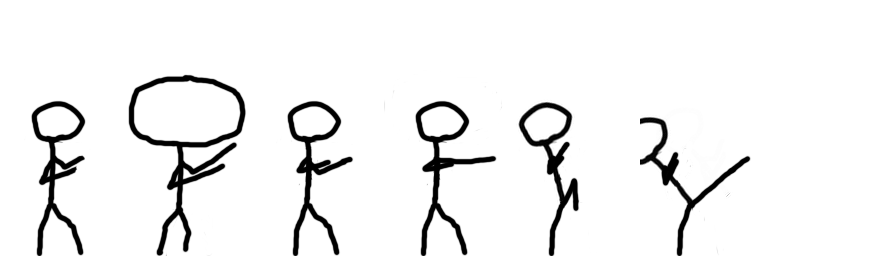
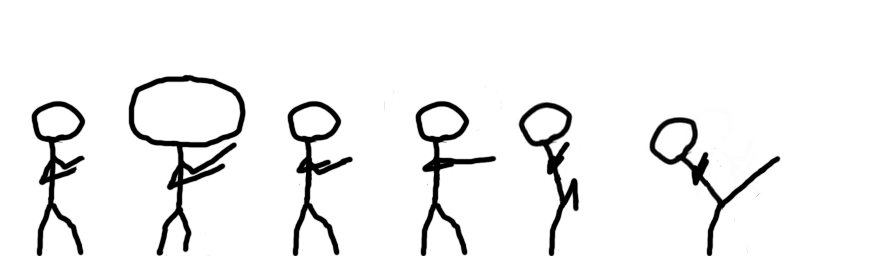
add support for oversized sprites

Changed region(s): [[0.7188, 0.4375, 0.875, 1.0]]

diff --git a/spritemap.py b/spritemap.py
@@ -17,7 +17,16 @@ class SpriteMap:
 		sprite = self.properties['sprites'][name]
 		x = sprite['index'] % SPRITES_PER_ROW * self.width
 		y = sprite['index'] / SPRITES_PER_ROW * self.height
-		return (x, y, self.width, self.height)
+		width = self.width
+		if sprite.has_key('oversize') and sprite['oversize']:
+			width += self.width
+		return (x, y, width, self.height)
 
-	def  image(self):
+	def image(self):
 		return self.map
+
+	def offset(self, name):
+		sprite = self.properties['sprites'][name]
+		if sprite.has_key('offset'):
+			return sprite['offset']
+		return 0

diff --git a/fighter.py b/fighter.py
@@ -17,7 +17,11 @@ class Fighter(pygame.sprite.Sprite):
         self.anim_frame = 0
 
     def render(self, surface):
-        surface.blit(self.sprite_map.image(), self.rect, area=self.sprite_map.sprite_rect(self.sprite))
+        off = self.sprite_map.offset(self.sprite)
+        rect = self.rect
+        if off > 0:
+            rect = pygame.Rect(rect.x - off, rect.y, rect.w + off, rect.h)
+        surface.blit(self.sprite_map.image(), rect, area=self.sprite_map.sprite_rect(self.sprite))
 
     def update(self):
         dy = 60 
